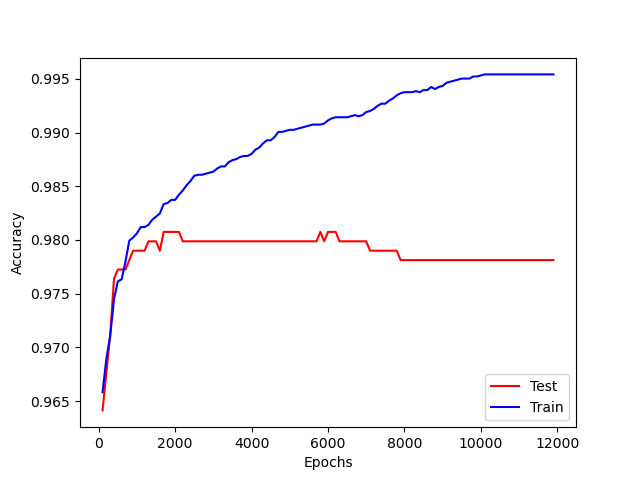
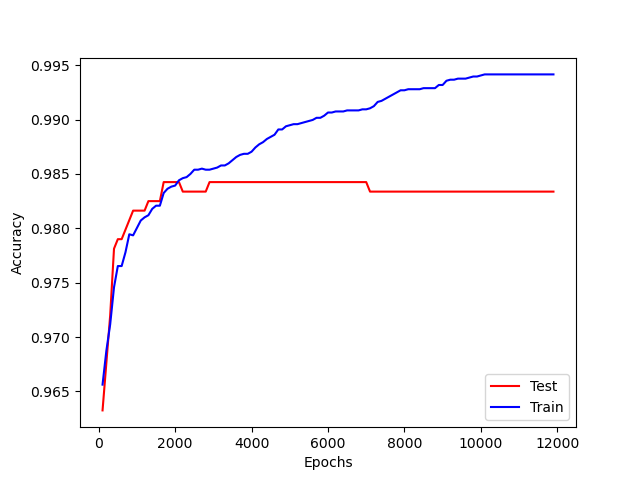
Added data and analysis

diff --git a/naive_bayes_classifier_analysis.py b/naive_bayes_classifier_analysis.py
@@ -15,21 +15,33 @@ doc[0] = train[train.iloc[:, 0] == 0].iloc[:, 1].to_numpy()
 doc[1] = train[train.iloc[:, 0] == 1].iloc[:, 1].to_numpy()
 
 
-# print(train.to_numpy())
-# print(train.iloc[:,0])
-#
-# print(train[train.iloc[:,0] == '0'].iloc[:,1].to_numpy())
-# print(doc)
-# print(list(filter(lambda i: i==0, )))
+def skip_word(word):
+    if len(word) == 0:
+        return True
+
+    if word in ['a', 'an', 'the', 'and', 'for']:
+        return True
+
+    if word[0] == '@':
+        return True
+
+    if 'http' in word:
+        return True
+
+    return False
+
 
 def extract_vocab(tweets):
     vocab = set()
 
     for tweet in tweets:
         for word in tweet.split(' '):
+            if skip_word(word.lower()):
+                continue
             vocab.add(word.lower())
 
     return vocab
+
 
 
 def count_words(doc):
@@ -39,13 +51,12 @@ def count_words(doc):
         class_tweets = doc[classes]
         counts[classes] = defaultdict(int)
         for tweet in list(class_tweets):
-            # print(tweet)
             words = tweet.split(' ')
             for word in words:
+                if skip_word(word.lower()):
+                    continue
                 counts[classes][word.lower()] += 1
-
     return counts
-
 
 def predict(tweet, prior, likelihoods, vocab):
     sums = {

diff --git a/naive_bayes_classifier.py b/naive_bayes_classifier.py
@@ -24,6 +24,9 @@ def skip_word(word):
     if word[0] == '@':
         return True
 
+    if 'http' in word:
+        return True
+
     return False
 
 
